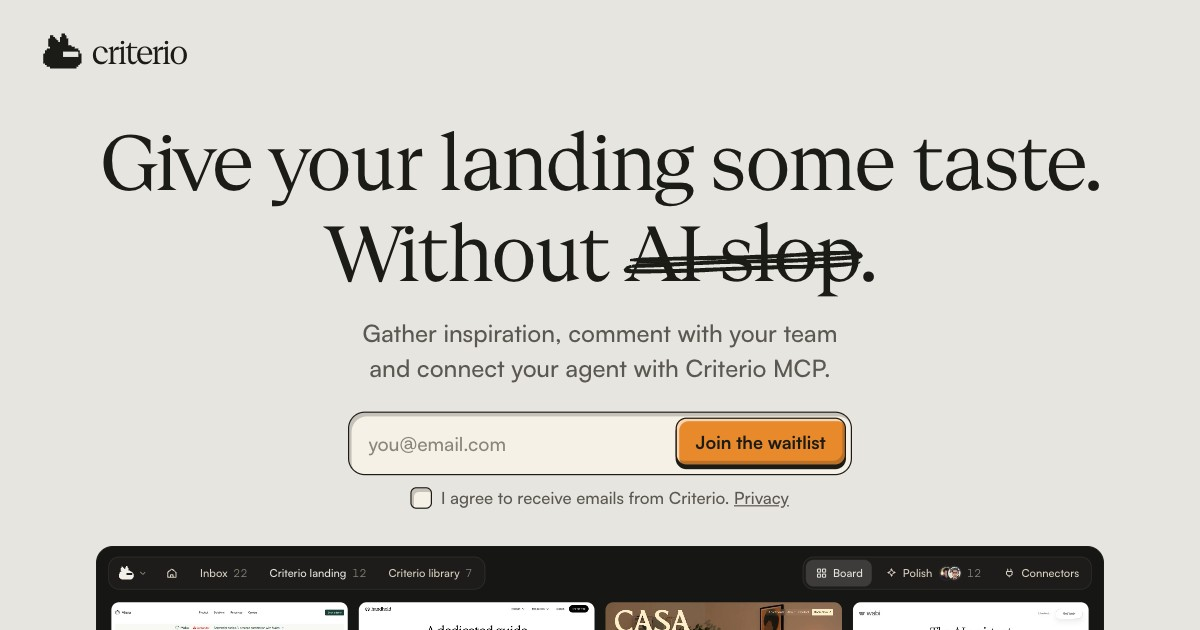
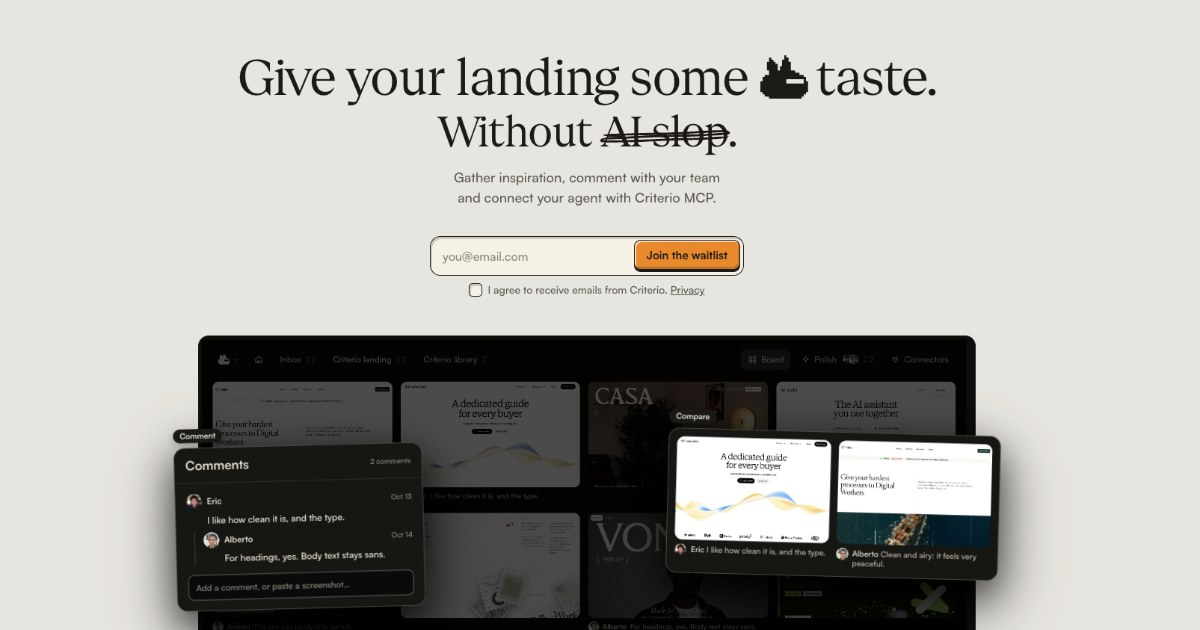
💄 style(home): new share cards, the current home in each language over the app
Each card is the hero (headline, waitlist form) above the app window, cut to 1200x630. The address carries
?v= so X, WhatsApp and Slack fetch it again instead of showing the old one they keep.

diff --git a/marketing-site/video/landing/construir.py b/marketing-site/video/landing/construir.py
@@ -64,7 +64,7 @@ for l, x in T.items():
 <meta property="og:url" content="{SITE}{x["at"]}">
 <meta property="og:title" content="{x["og"]}">
 <meta property="og:description" content="{x["desc"]}">
-<meta property="og:image" content="{SITE}/og-home-{l}.jpg">
+<meta property="og:image" content="{SITE}/og-home-{l}.jpg?v=20261125">
 <meta property="og:image:width" content="1200">
 <meta property="og:image:height" content="630">
 <meta property="og:image:alt" content="{x["alt"]}">
